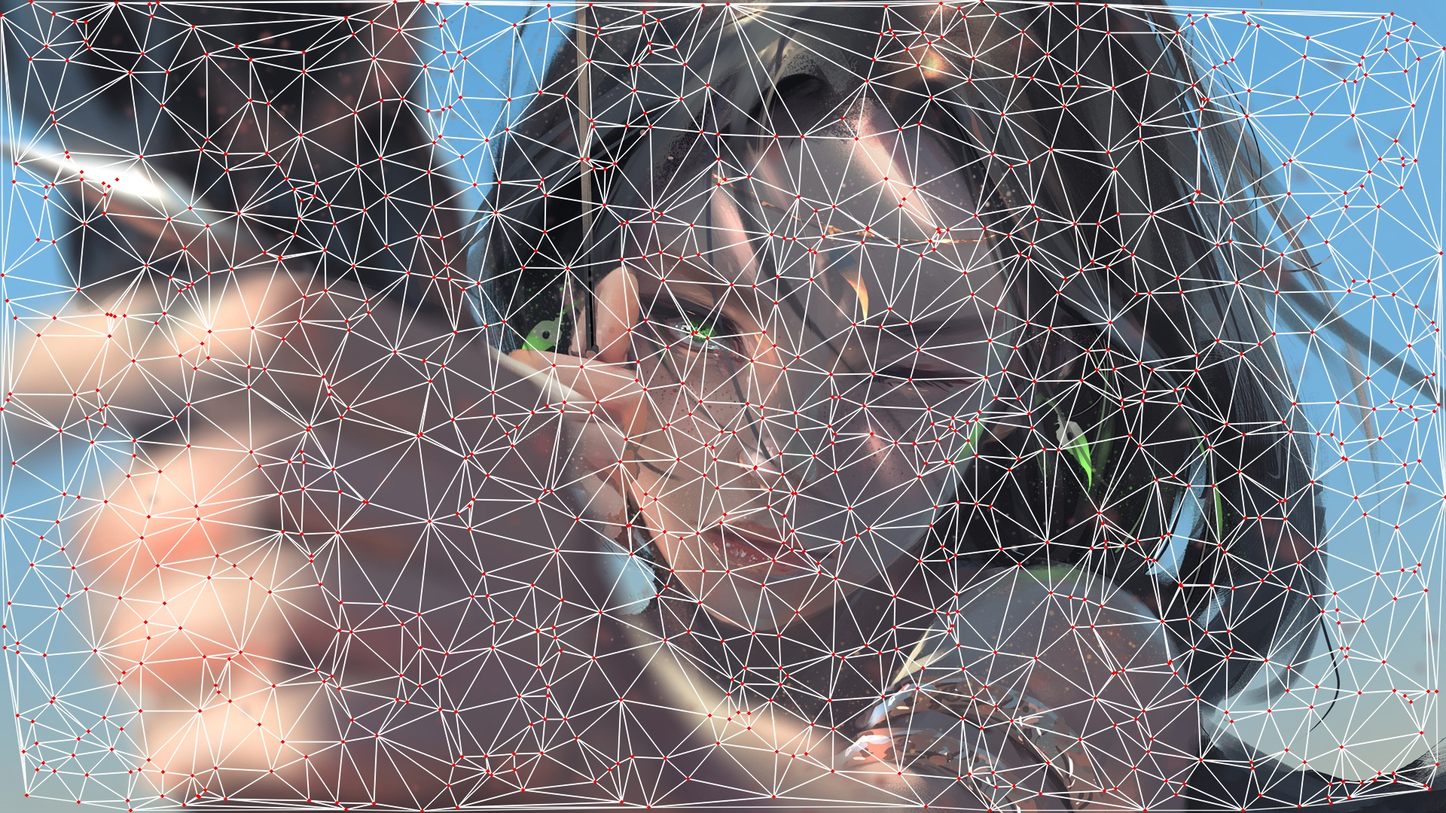
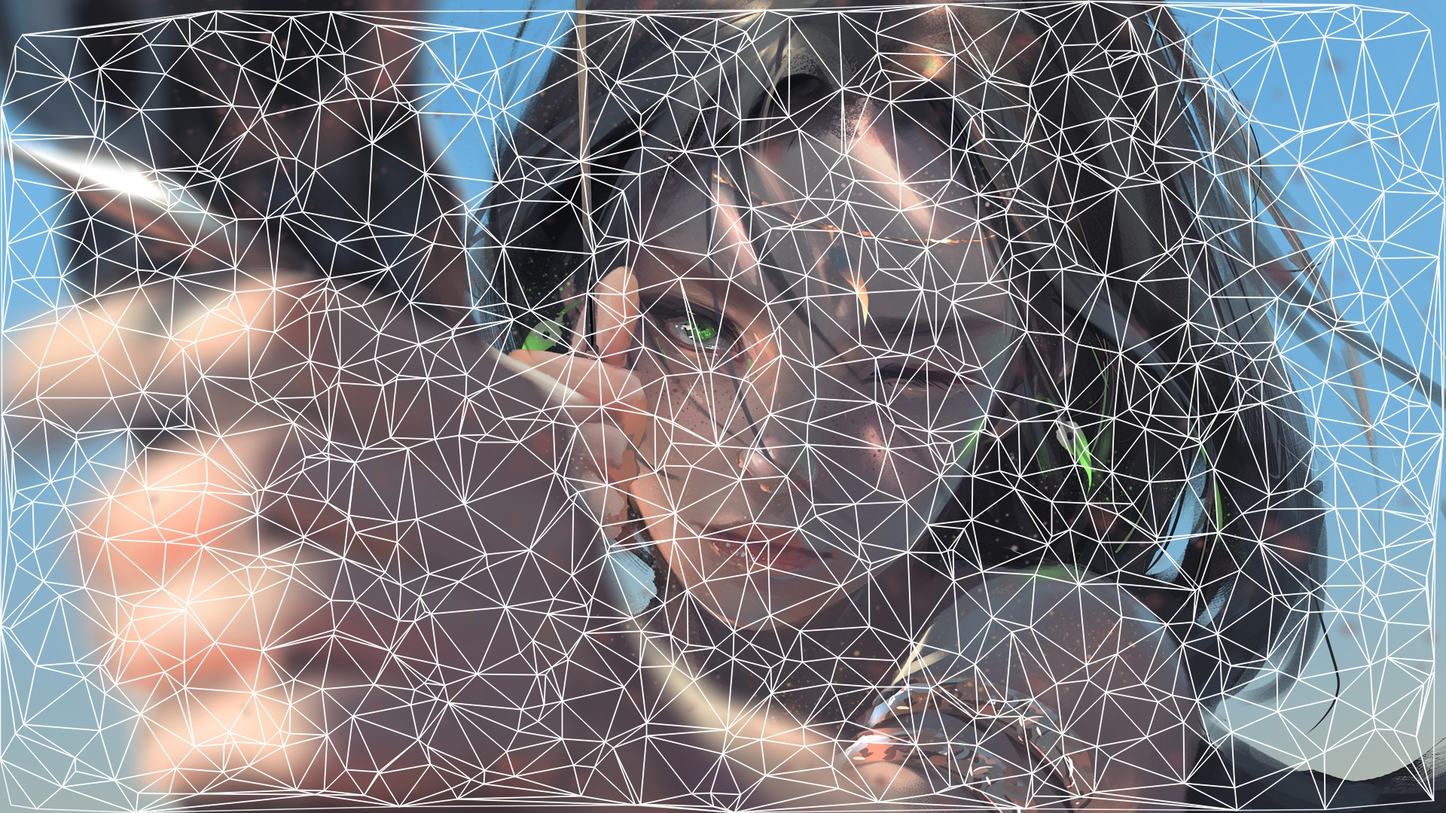
完成基本采样,需要调整.

diff --git a/sampling/triangulation_blur.py b/sampling/triangulation_blur.py
@@ -4,8 +4,8 @@ import cv2
 import numpy as np
 import random
 import matplotlib.pyplot as plt
-
-# 检测是否一个点在三角形内部
+from numpy import core
+# Check if a point is inside a rectangle
 def rect_contains(rect, point) :
     if point[0] < rect[0] :
         return False
@@ -21,25 +21,50 @@ def rect_contains(rect, point) :
 def draw_point(img, p, color ) :
     cv2.circle( img, p, 2, color, cv2.FILLED, cv2.LINE_AA, 0 )
 
-# Draw delaunay triangles
-def draw_delaunay(img, subdiv, delaunay_color ) :
+# 从一个三角形区域采集色彩
+def sample_mean_color(img, pt1, pt2, pt3, method="center"):
+    points = np.array([pt1, pt2, pt3])
+    rect = cv2.minAreaRect(points)
+    ((cx, cy), (width, height), angle) = rect
+    cx = int(cx)
+    cy = int(cy)
+    color = None
 
-    # 获得三角
+    # center，直接用矩形中心点作为近似的颜色
+    if method=="center":
+        color = img[cy,cx,:]
+        color = (int(color[0]), int(color[1]), int(color[2]))
+    elif method=="vertex":
+        color = img[pt1[1], pt1[0],:]
+        color += img[pt2[1], pt2[0],:]
+        color += img[pt3[1], pt3[0],:]
+        color = (int(color[0]/3), int(color[1]/3), int(color[2]/3))
+
+    elif method=="random":
+        raise NotImplemented('Method random not implemented.')
+    else:
+        raise Exception('Method not supported.')
+    return color
+
+# Draw delaunay triangles
+def draw_delaunay_blur(img, subdiv, method) :
+
     triangleList = subdiv.getTriangleList() 
     size = img.shape
     r = (0, 0, size[1], size[0])
 
     for t in triangleList :
 
-        # 三角形的三个顶点
         pt1 = (int(t[0]), int(t[1]))
         pt2 = (int(t[2]), int(t[3]))
         pt3 = (int(t[4]), int(t[5]))
-        
+
         if rect_contains(r, pt1) and rect_contains(r, pt2) and rect_contains(r, pt3) :
-            cv2.line(img, pt1, pt2, delaunay_color, 1, cv2.LINE_AA, 0)
-            cv2.line(img, pt2, pt3, delaunay_color, 1, cv2.LINE_AA, 0)
-            cv2.line(img, pt3, pt1, delaunay_color, 1, cv2.LINE_AA, 0)
+            color = sample_mean_color(img, pt1, pt2, pt3, method)
+
+            triangle_cnt = np.array([pt1, pt2, pt3])
+            # 通过轮廓填充来填充三角形
+            cv2.drawContours(img, [triangle_cnt], 0, tuple(color), -1)
 
 # Draw voronoi diagram
 def draw_voronoi(img, subdiv) :
@@ -61,7 +86,13 @@ def draw_voronoi(img, subdiv) :
         cv2.circle(img, (int(centers[i][0]), int(centers[i][1])), 3, (0, 0, 0), cv2.FILLED, cv2.LINE_AA, 0)
 
 
-def DelaunayTriangulation(img, point_num=1000, animate=False):
+def DelaunayTriangulationBlur(img, point_num=1000, method="center"):
+    """
+    对img进行三角采样，并使用三角中的颜色进行填充，支持的颜色方法：
+    center，取三角中心点;
+    random，随机在三角形采样;
+    vertex，取三角形点进行平均;
+    """
     if img is None:
         raise Exception('Img can not be None.')
     if not isinstance(img, np.ndarray):
@@ -71,6 +102,7 @@ def DelaunayTriangulation(img, point_num=1000, animate=False):
     # Define colors for drawing.
     delaunay_color = (255,255,255)
     points_color = (0, 0, 255)
+
 
     # Keep a copy around
     img_orig = img.copy() 
@@ -85,7 +117,7 @@ def DelaunayTriangulation(img, point_num=1000, animate=False):
     # Create an array of points.
     points = set()
     
-    # 随机采点
+    # generate points randomly
     width = img.shape[0]
     height = img.shape[1]
     for i in range(point_num):
@@ -95,29 +127,17 @@ def DelaunayTriangulation(img, point_num=1000, animate=False):
 
     # Insert points into subdiv
     for p in points :
+        # import pdb; pdb.set_trace()
         subdiv.insert(p)
-        # Show animation
-        if animate :
-            img_copy = img_orig.copy()
-            # Draw delaunay triangles
-            draw_delaunay( img_copy, subdiv, (255, 255, 255) ) 
-            cv2.imshow(win_delaunay, img_copy)
-            cv2.waitKey(100)
 
     # Draw delaunay triangles
-    draw_delaunay( img, subdiv, (255, 255, 255) ) 
+    draw_delaunay_blur( img, subdiv, method ) 
 
     is_draw_points=False
     if is_draw_points:
         # Draw points
         for p in points :
             draw_point(img, p, (0,0,255))
-
-    # # Allocate space for Voronoi Diagram
-    # img_voronoi = np.zeros(img.shape, dtype = img.dtype)
-
-    # # Draw Voronoi diagram
-    # draw_voronoi(img_voronoi,subdiv)
 
     return img
 
@@ -172,12 +192,12 @@ if __name__ == '__main__':
         if animate :
             img_copy = img_orig.copy()
             # Draw delaunay triangles
-            draw_delaunay( img_copy, subdiv, (255, 255, 255) ) 
+            draw_delaunay_blur( img_copy, subdiv, "center") 
             cv2.imshow(win_delaunay, img_copy)
             cv2.waitKey(100)
 
     # Draw delaunay triangles
-    draw_delaunay( img, subdiv, (255, 255, 255) ) 
+    draw_delaunay_blur( img, subdiv, "center" ) 
 
     is_draw_points=False
     if is_draw_points:
@@ -193,6 +213,6 @@ if __name__ == '__main__':
 
     # Show results
     # cv2.imshow(win_delaunay,img)
-    cv2.imwrite('../imgs/delaunay.jpg', img)
+    cv2.imwrite('../imgs/delaunay_blur.jpg', img)
     # cv2.imshow(win_voronoi,img_voronoi)
-    cv2.imwrite('imgs/voronoi.jpg', img)
+    # cv2.imwrite('imgs/voronoi.jpg', img)

diff --git a/sample.py b/sample.py
@@ -1,10 +1,13 @@
 import cv2
-from sampling import DelaunayTriangulation
+import utils
+from sampling import DelaunayTriangulation, DelaunayTriangulationBlur
 
 if __name__=='__main__':
-    img_path = 'imgs/img_test.jpeg'
+    img_path = 'imgs/img_origin.jpeg'
     img = cv2.imread(img_path)
-    img_delaunay, img_voronoi = DelaunayTriangulation(img)
+    img_delaunay = DelaunayTriangulation(img, 2000)
     
-    cv2.imwrite('imgs/delaunay.jpg', img_delaunay)
-    cv2.imwrite('imgs/voronoi.jpg', img_voronoi)
+    utils.show_img(img_delaunay)
+
+    img_delaunay = DelaunayTriangulationBlur(img,10000, method="center")
+    utils.show_img(img_delaunay)

diff --git a/utils.py b/utils.py
@@ -1,0 +1,12 @@
+import cv2
+import matplotlib.pyplot as plt
+import numpy as np
+
+
+def show_img(img):
+    cv2.namedWindow("img", cv2.WINDOW_NORMAL) 
+    cv2.imshow("img", img)
+    cv2.waitKey(0)
+
+def save_img(name, img):
+    cv2.imwrite(name, img)

diff --git a/sampling/__init__.py b/sampling/__init__.py
@@ -1,1 +1,2 @@
 from .triangulation import DelaunayTriangulation
+from .triangulation_blur import DelaunayTriangulationBlur

diff --git a/README.md b/README.md
@@ -1,21 +1,25 @@
 # Non-uniform Grid Deep Learning Super Sampling
 
-Here's our demo.
+这是我们的demo.
 
 ![](./imgs/delaunay.jpg)
 
 
 ![](./imgs/voronoi.jpg)
 
+# To Do List
+- [ ] 采样
+- [ ] 网络结构
 
-# Usage
+
+# 使用方法
 Sample.
 ```
 python sample.py 
 ```
 
-# Record & Progress
-## Introduction
+# 记录 & 进度
+# 介绍
 项目简介：目前超采样算法都是从图像到图像的输入和输出，图像可以看作一种致密的均匀网格（dense uniform grid）。在此，我们试图更改输入为更一般化的非均匀系数样本的网格，尝试基于深度学习的超采样图像重建。(右图只是示意，图中网格过于稀疏，实际难以保证质量。）
 
 任务：可以使用Voronoi-Delaunay随机撒点三角化算法预先在图像上覆盖生成网格，逐顶点采样图像样本。参考图像超采样深度学习相关文献，设计类似输入为网格样本的超采样算法， 重建原始图像。
@@ -23,9 +27,9 @@ python sample.py
 
 要求：设计相关神经网络算法，可控制调整网格密度和点分布，生成图像重建结果，比较质量；尝试尽可能降低网格密度并获得高质量还原图像；尝试减少神经网络深度（可附加其他预处理），提升性能。
 
-## Method
+# 方法
 
-### Overall Pipeline
+## 算法流水线
 training:
 ```
 Input: img_origin
@@ -41,7 +45,12 @@ Input: img_origin
 2. Input img_sampled into SuperResolution Network and get img_reconstructed.
 ```
 
-### Sampling
+## 采样
+原图：
+![](imgs/img_origin.jpeg)
+首先使用Voronoi-Delaunay进行三角采样，获得如下图所示的结果：
+![](imgs/delaunay.jpg)
 
-## Reference
+
+# 参考
 1. Neural supersampling for real-time rendering, 2020
